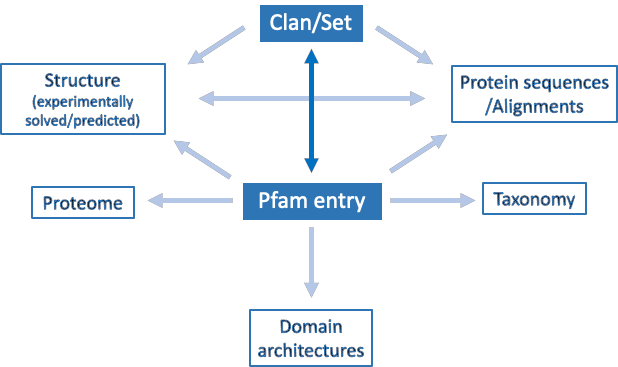
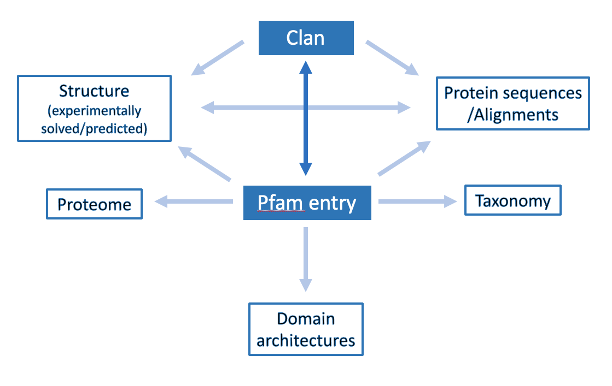
change clan/set to clan in text and some images

Changed region(s): [[0.031, 0.0, 0.9624, 1.0], [0.0, 0.1499, 0.3725, 0.4796], [0.6209, 0.1798, 1.0, 0.4796]]

diff --git a/docs/clan.rst b/docs/clan.rst
@@ -1,29 +1,30 @@
 **************************
-Clan/Set page organisation
+Clan page organisation
 **************************
 
 .. _CL0219: https://www.ebi.ac.uk/interpro/set/pfam/CL0219/
 
-**Pfam clans** are called **Sets** in the InterPro website, more information about how clans are defined can be found in :doc:`Summary </summary>`. 
-If a Pfam entry is included in a clan this information will be displayed in the **Overview** tab in the Pfam entry page, next to *Set*, 
-below the Pfam short name, with a link to the corresponding clan/set page. 
+If a Pfam entry is included in a **Pfam clan** this information will be displayed in the **Overview** tab in the Pfam entry page, next to *Clan*, 
+below the Pfam short name, with a link to the corresponding clan page. More information about how clans are defined can be found 
+in :doc:`Summary </summary>`. 
 
-Additionally, it is possible to browse through the Pfam clans by selecting `Browse + By Set <https://www.ebi.ac.uk/interpro/set/all/entry/pfam/#table>`_ in the InterPro website menu and select **Pfam** in the database section.
+Additionally, it is possible to browse through the Pfam clans by selecting `Browse + By Clan/Set <https://www.ebi.ac.uk/interpro/set/all/entry/pfam/#table>`_ 
+in the InterPro website menu and select **Pfam** in the database section.
 
 .. figure:: images/cloverview.png
-    :alt: Example of a Pfam clan/set page with the default tab selected (Overview)
+    :alt: Example of a Pfam clan page with the default tab selected (Overview)
     :width: 700
     :align: left
 
-    Example of a Pfam clan/set page (CL0219_). All the tabs described below can b
+    Example of a Pfam clan page (CL0219_). All the tabs described below can be
     found on the left-hand side menu. The **Overview** tab is displayed by default.
 
-In each Pfam clan/set page, different tabs with relevant information are available, the information they contain is described below.
+In each Pfam clan page, different tabs with relevant information are available, the information they contain is described below.
 
 Overview
 ========
 
-The clan/set **Overview** tab is the default display, where the clan accession number, its short name and the author(s) are shown at the top. A 
+The clan **Overview** tab is the default display, where the clan accession number, its short name and the author(s) are shown at the top. A 
 description of the clan is displayed below, with the relevant literature references. 
 
 An interactive view of the Pfam entries included in the clan is also displayed, different label types can be chosen through the 
@@ -33,23 +34,23 @@ An interactive view of the Pfam entries included in the clan is also displayed, 
 Entries
 =======
 
-The list of Pfam entries included in the clan/set is provided in this tab. For each entry, accession, name, short name and links to the 
+The list of Pfam entries included in the clan is provided in this tab. For each entry, accession, name, short name and links to the 
 entries SEED alignment and domain architectures pages are available. 
 
 Users can export this data in different formats, by clicking on the **Export** button, and customise the page settings, by clicking on the wheel icon.
 
 .. figure:: images/clentries.png
-    :alt: Example of a Pfam clan/set page with the Entries tab selected.
+    :alt: Example of a Pfam clan page with the Entries tab selected.
     :width: 700
     :align: left
 
-    Example of a Pfam clan/set page (CL0219_) with the **Entries** tab selected.
+    Example of a Pfam clan page (CL0219_) with the **Entries** tab selected.
 
 
 Proteins
 ========
 
-The list of proteins matching any Pfam entry belonging to the clan/set is displayed in this tab. The view can be customised to show:
+The list of proteins matching any Pfam entry belonging to the clan is displayed in this tab. The view can be customised to show:
 
 1. **All** proteins (from the whole UniProtKB database).
 2. Only **Reviewed** proteins (from SwissProt - manually curated).
@@ -61,18 +62,18 @@ InterPro taxonomy page can be accessed by clicking on the species name.
 Users can export this data in different formats, by clicking on the **Export** button, and customise the page settings, by clicking on the wheel icon.
 
 .. figure:: images/clproteins.png
-    :alt: Example of a Pfam clan/set page with the tab Proteins selected.
+    :alt: Example of a Pfam clan page with the tab Proteins selected.
     :width: 700
     :align: left
 
-    Example of a Pfam clan/set page (CL0219_) with the **Proteins** tab selected. The 
+    Example of a Pfam clan page (CL0219_) with the **Proteins** tab selected. The 
     table is customised to show only **Reviewed** proteins.
 
 .. _clstruct:
 Structures
 ==========
 
-This tab displays a list of all the PDB structures linked to the proteins matching any Pfam entry belonging to the clan/set. For 
+This tab displays a list of all the PDB structures linked to the proteins matching any Pfam entry belonging to the clan. For 
 each structure, you can see the PDB accession and the name of the structure in PDB.
 
 By clicking on a PDB accession, name or small image of the structure, a view of the corresponding InterPro structure page that summarises 
@@ -83,56 +84,56 @@ The position of each entry within the overall 3D structure can be visualised by 
 Additionally, links to similar PDB viewers and cross-references to other structural databases are provided in the **External links** section.
 
 .. figure:: images/clstruct.png
-    :alt: Example of a Pfam clan/set page with the Structures tab selected.
+    :alt: Example of a Pfam clan page with the Structures tab selected.
     :width: 700
     :align: left
 
-    Example of a Pfam clan/set page (CL0219_) with the **Structures** tab selected.
+    Example of a Pfam clan page (CL0219_) with the **Structures** tab selected.
 
 
 Taxonomy
 ========
 
-This tab shows by default a list of all the species that the proteins matched by any Pfam entry of the clan/set belong to.
+This tab shows by default a list of all the species that the proteins matched by any Pfam entry of the clan belong to.
 
 These data can also be seen as a tree. These visualisation options can be chosen from the icon panel above the list. All this information 
 can be downloaded in different formats.
 
 .. figure:: images/cltax.png
-    :alt: Example of a Pfam clan/set page with the Taxonomy tab selected.
+    :alt: Example of a Pfam clan page with the Taxonomy tab selected.
     :width: 700
     :align: left
 
-    Example of a Pfam clan/set page (CL0219_) with the **Taxonomy** tab selected. 
-    The default table listing the species having proteins belonging to this Pfam clan-set is displayed on top and an example view of a 
+    Example of a Pfam clan page (CL0219_) with the **Taxonomy** tab selected. 
+    The default table listing the species having proteins belonging to this Pfam clan is displayed on top and an example view of a 
     taxonomic tree for this clan is shown below.
 
 
 Proteomes
 =========
 
-A list of the reference proteomes matched by any Pfam entry belonging to the clan/set is displayed in this tab. For each item in this list 
+A list of the reference proteomes matched by any Pfam entry belonging to the clan is displayed in this tab. For each item in this list 
 the Proteome ID (which is a link to the Proteome page in InterPro), the name of the species carrying this proteome and the number
 of proteins in this proteome that match the entry are displayed. From the **Actions** column, users can also access a list of these proteins by clicking the 
 first icon (**View matching proteins**), download the data in different formats or **View proteome information**.
 
 .. figure:: images/clproteomes.png
-    :alt: Example of a Pfam clan/set page with the Proteomes tab selected.
+    :alt: Example of a Pfam clan page with the Proteomes tab selected.
     :width: 700
     :align: left
 
-    Example of a Pfam clan/set page (CL0219_) with the tab **Proteomes** selected.
+    Example of a Pfam clan page (CL0219_) with the tab **Proteomes** selected.
 
 Alignment
 =========
 
-This tab shows a list of the Pfam entries belonging to the clan/set with a relationship to each other. By clicking on each entry, users can see a 
+This tab shows a list of the Pfam entries belonging to the clan with a relationship to each other. By clicking on each entry, users can see a 
 small-size protein viewer showing the alignment of the related entries.
 
 
 .. figure:: images/clalignment.png
-    :alt: Example of a Pfam clan/set page with the Proteomes tab selected.
+    :alt: Example of a Pfam clan page with the Proteomes tab selected.
     :width: 700
     :align: left
 
-    Example of a Pfam clan/set page (CL0219_) with the tab **Alignment** selected.
+    Example of a Pfam clan page (CL0219_) with the tab **Alignment** selected.

diff --git a/docs/faq.rst b/docs/faq.rst
@@ -22,7 +22,7 @@ What is a Pfam entry page?
 On the Pfam entry page you can view all the associated information, from annotation to structure predictions of the protein members. 
 See :doc:`Pfam entry page organisation </pfam-entry>` for a detailed description on how this data is presented.
 
-What is a clan/set?
+What is a clan?
 ===================
 
 Some of the Pfam entries are grouped into clans. Pfam defines a clan as a collection of entries that have arisen from a single evolutionary origin. 
@@ -34,9 +34,9 @@ also in the seed alignment for an entry, only the match to that entry is shown. 
 E-value.
 
 The clan pages can be accessed by following a link from the Pfam entry page, or alternatively they can be accessed by by selecting 
-`Browse + By Set <https://www.ebi.ac.uk/interpro/set/all/entry/pfam/#table>`_ in the InterPro website menu and select **Pfam** in the database section.
+`Browse + By Clan/Set <https://www.ebi.ac.uk/interpro/set/all/entry/pfam/#table>`_ in the InterPro website menu and select **Pfam** in the database section.
 
-For each clan page, you can access all the related data. See :doc:`Clan/Set page organisation </clan-set>` for more information. 
+For each clan page, you can access all the related data. See :doc:`Clan page organisation </clan>` for more information. 
 
 What criteria do you use for adding families into clans?
 =========================================================
@@ -148,7 +148,7 @@ emitted from the Insert (I) state are in lower case.
 How can I visualise the position of a Pfam entry in a structure?
 ================================================================
 
-In the **Structures** tab of a :ref:`Pfam entry <pfstruct>` or a :ref:`Pfam clan/set <clstruct>` page you can find links to relevant InterPro structure 
+In the **Structures** tab of a :ref:`Pfam entry <pfstruct>` or a :ref:`Pfam clan <clstruct>` page you can find links to relevant InterPro structure 
 pages. 
 
 In an InterPro structure page, or each chain of the structure matches to Pfam and other databases and resources are displayed in a 

diff --git a/docs/pfam-entry.rst b/docs/pfam-entry.rst
@@ -18,8 +18,8 @@ In each Pfam entry page, different tabs with relevant information are available,
 Overview
 ========
 
-The entry overview tab is the default display, where the type of Pfam entry, the short name and the clan/set (if the entry belongs to any) are shown at the top, 
-more information about how clans are defined can be found in :ref:`<summary>`. Usually, a curated description of the entry is displayed below, with the relevant 
+The entry overview tab is the default display, where the type of Pfam entry, the short name and the clan (if the entry belongs to any) are shown at the top, 
+more information about how clans are defined can be found in :doc:`Summary </summary>`. Usually, a curated description of the entry is displayed below, with the relevant 
 literature references. 
 
 If there is a Wikipedia page for the entry, the first paragraph and the box with an image of a tridimensional structure and some cross-links are displayed. The full 

diff --git a/docs/getting-started.rst b/docs/getting-started.rst
@@ -15,4 +15,4 @@ Site organisation
 
   Schematic representation of the organisation of the information in the Pfam database. The arrows represent the flow of data.
 
-Note the InterPro website uses the words **'Set'** for *'Clan'* and **'Conserved site'** for *'Motif'* for consistency with the rest of the member databases that form part of `the InterPro consortium <https://www.ebi.ac.uk/interpro/about/consortium/>`_.
+Note the InterPro website uses the word **'Conserved site'** for *'Motif'* for consistency with the rest of the member databases that form part of `the InterPro consortium <https://www.ebi.ac.uk/interpro/about/consortium/>`_.

diff --git a/docs/summary.rst b/docs/summary.rst
@@ -27,8 +27,7 @@ Pfam clans
 ==========
 
 Structural properties are often more conserved than the underlying sequence. Therefore, a single profile HMM is often insufficient to 
-model an entire, diverse, structural superfamily and related Pfam entries are sometimes grouped together into clans (called sets in 
-InterPro); the relationship may be defined by:
+model an entire, diverse, structural superfamily and related Pfam entries are sometimes grouped together into clans; the relationship may be defined by:
 
 - sequence similarity (whilst still originating from a common ancestor)
 - similarity of known three-dimensional structures

diff --git a/docs/searching-pfam.rst b/docs/searching-pfam.rst
@@ -51,8 +51,8 @@ This text box allows you to go quickly to the relevant page in the InterPro site
     - Pfam entry page
   * - Pfam identifier or name
     - Pfam entry page
-  * - Set/clan identifier
-    - Pfam Set/clan page
+  * - Clan identifier
+    - Pfam Clan page
   * - UniProt accession
     - IntePro protein page, which includes Pfam matches (with coordinates)
   * - Gene names

diff --git a/docs/index.rst b/docs/index.rst
@@ -18,7 +18,7 @@ Contents:
    /getting-started
    /searching-pfam
    /pfam-entry
-   /clan-set
+   /clan
    /training
    /faq
    /glossary
